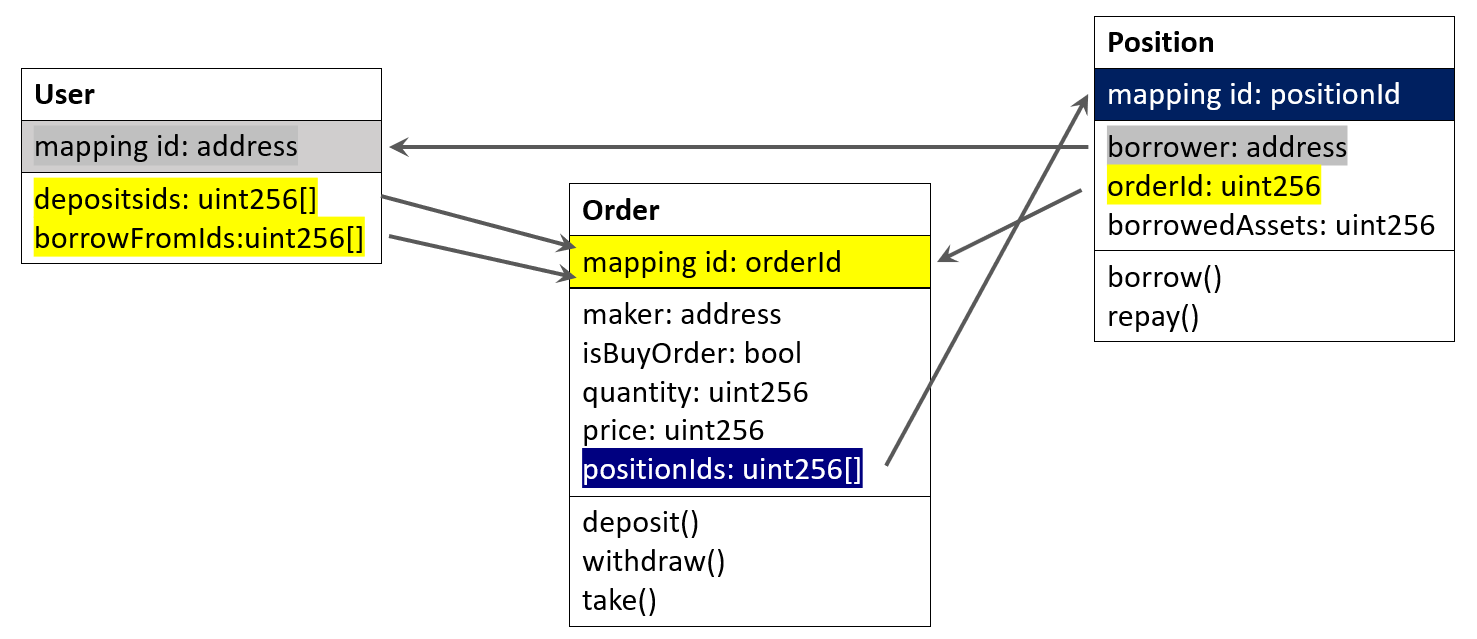
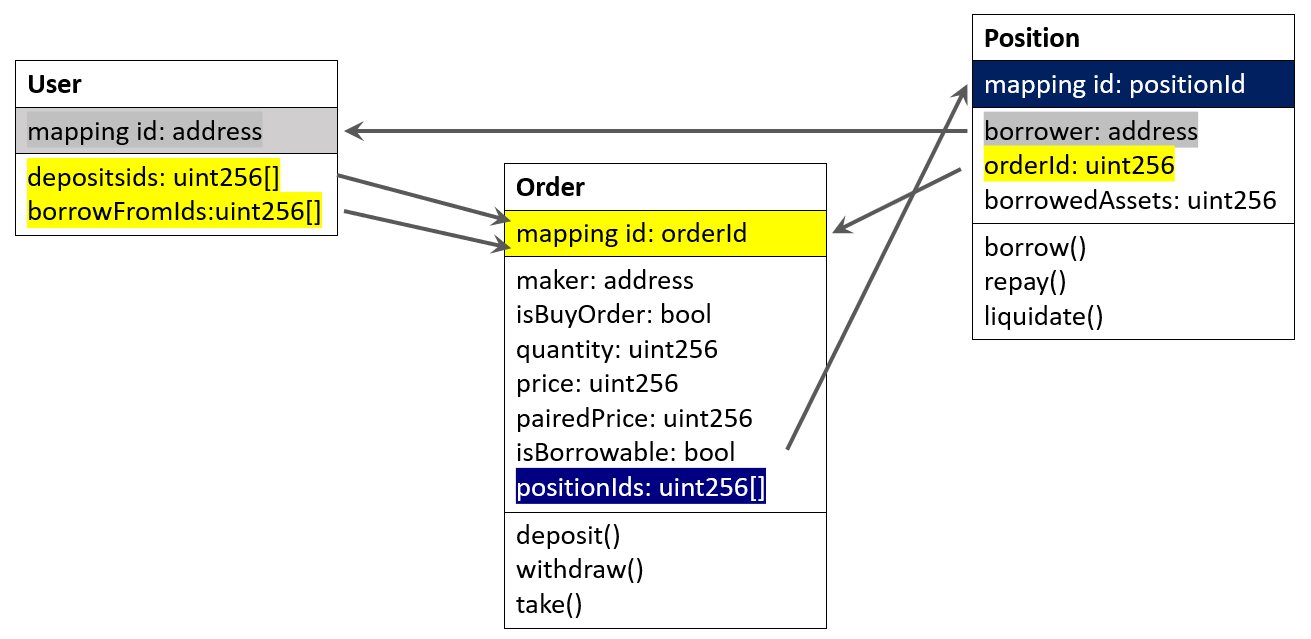
v1.1 version (see Version.md)

Changed region(s): [[0.0, 0.0, 1.0, 0.9812], [0.9764, 0.3865, 1.0, 0.4163]]

diff --git a/Versions.md b/Versions.md
@@ -39,3 +39,13 @@
   - implement liquidation based on compound interest rate
   - more tests of the IRM in TestLiquidate.t.sol and TestInterestRate.t.sol
 - code optimization
+
+### What's new in V1.1
+
+- Let makers make their limit orders non borrowable:
+  - Take effect immediately for the non-borrowed part of the assets
+  - after the loans being repaid for the borrowed part
+- new unit tests for changeBorrowable()
+- updated IBook.sol
+- updated LendBook ULM
+- code optimization
